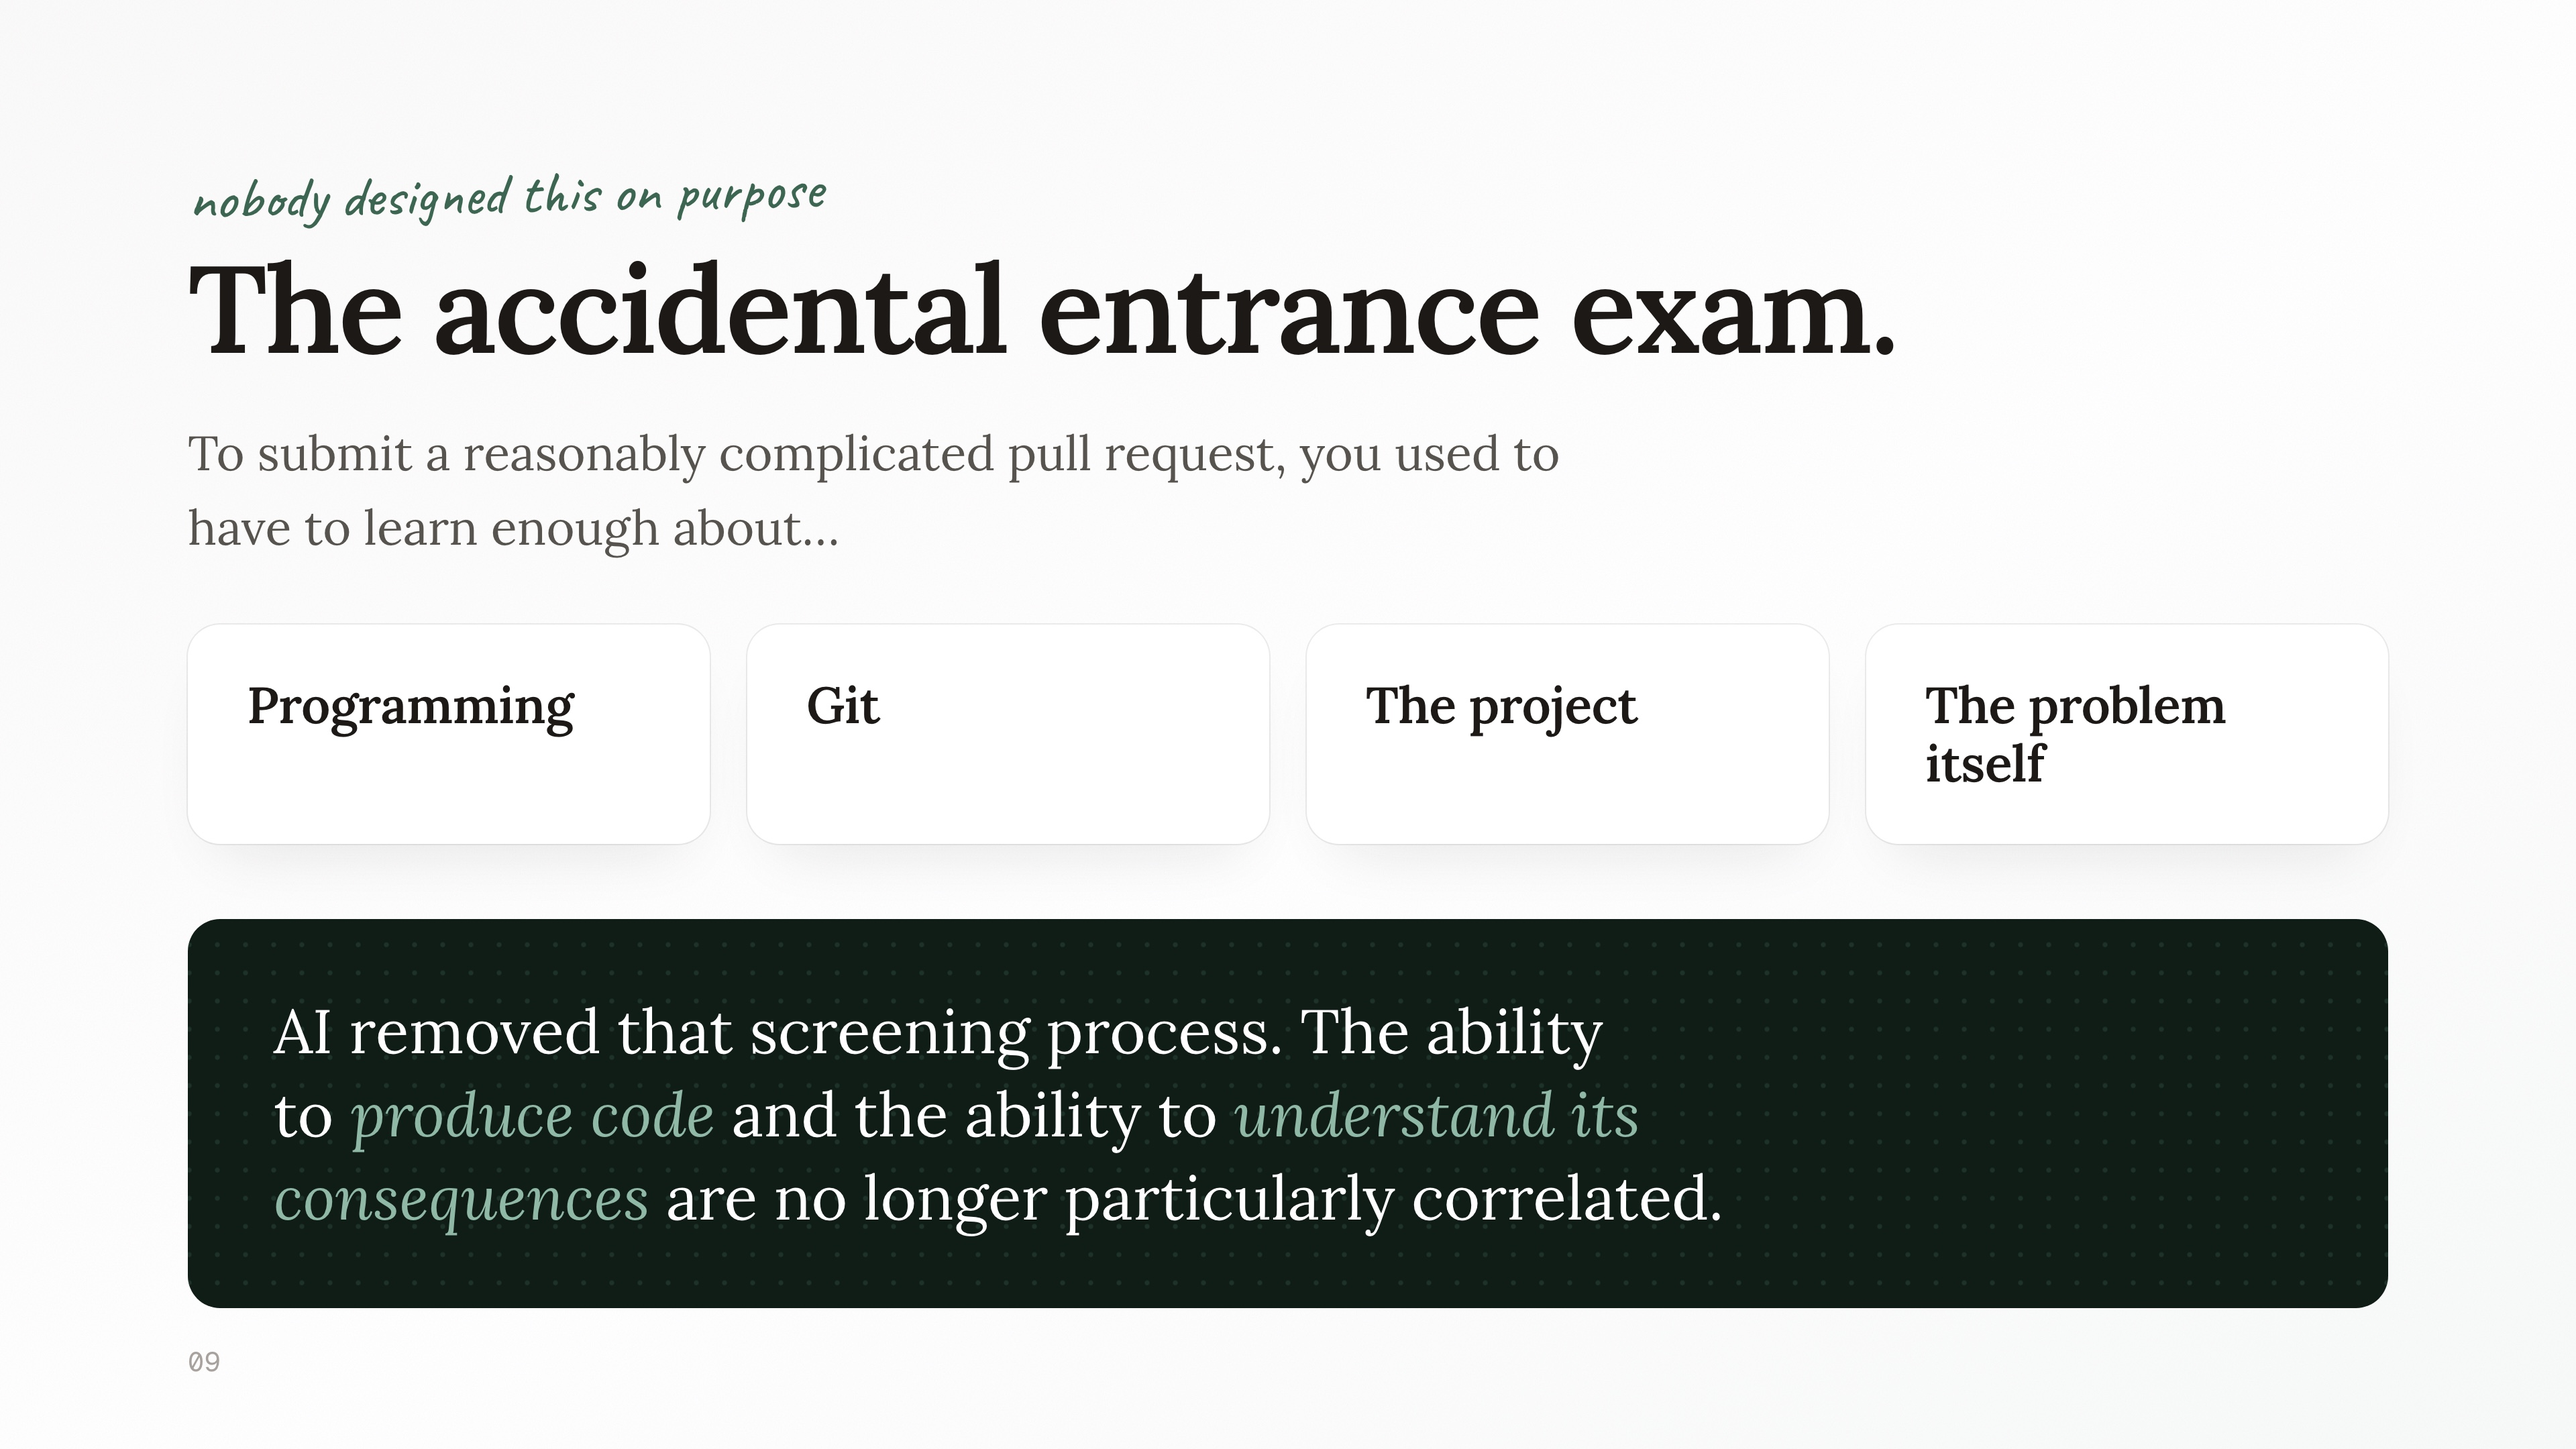
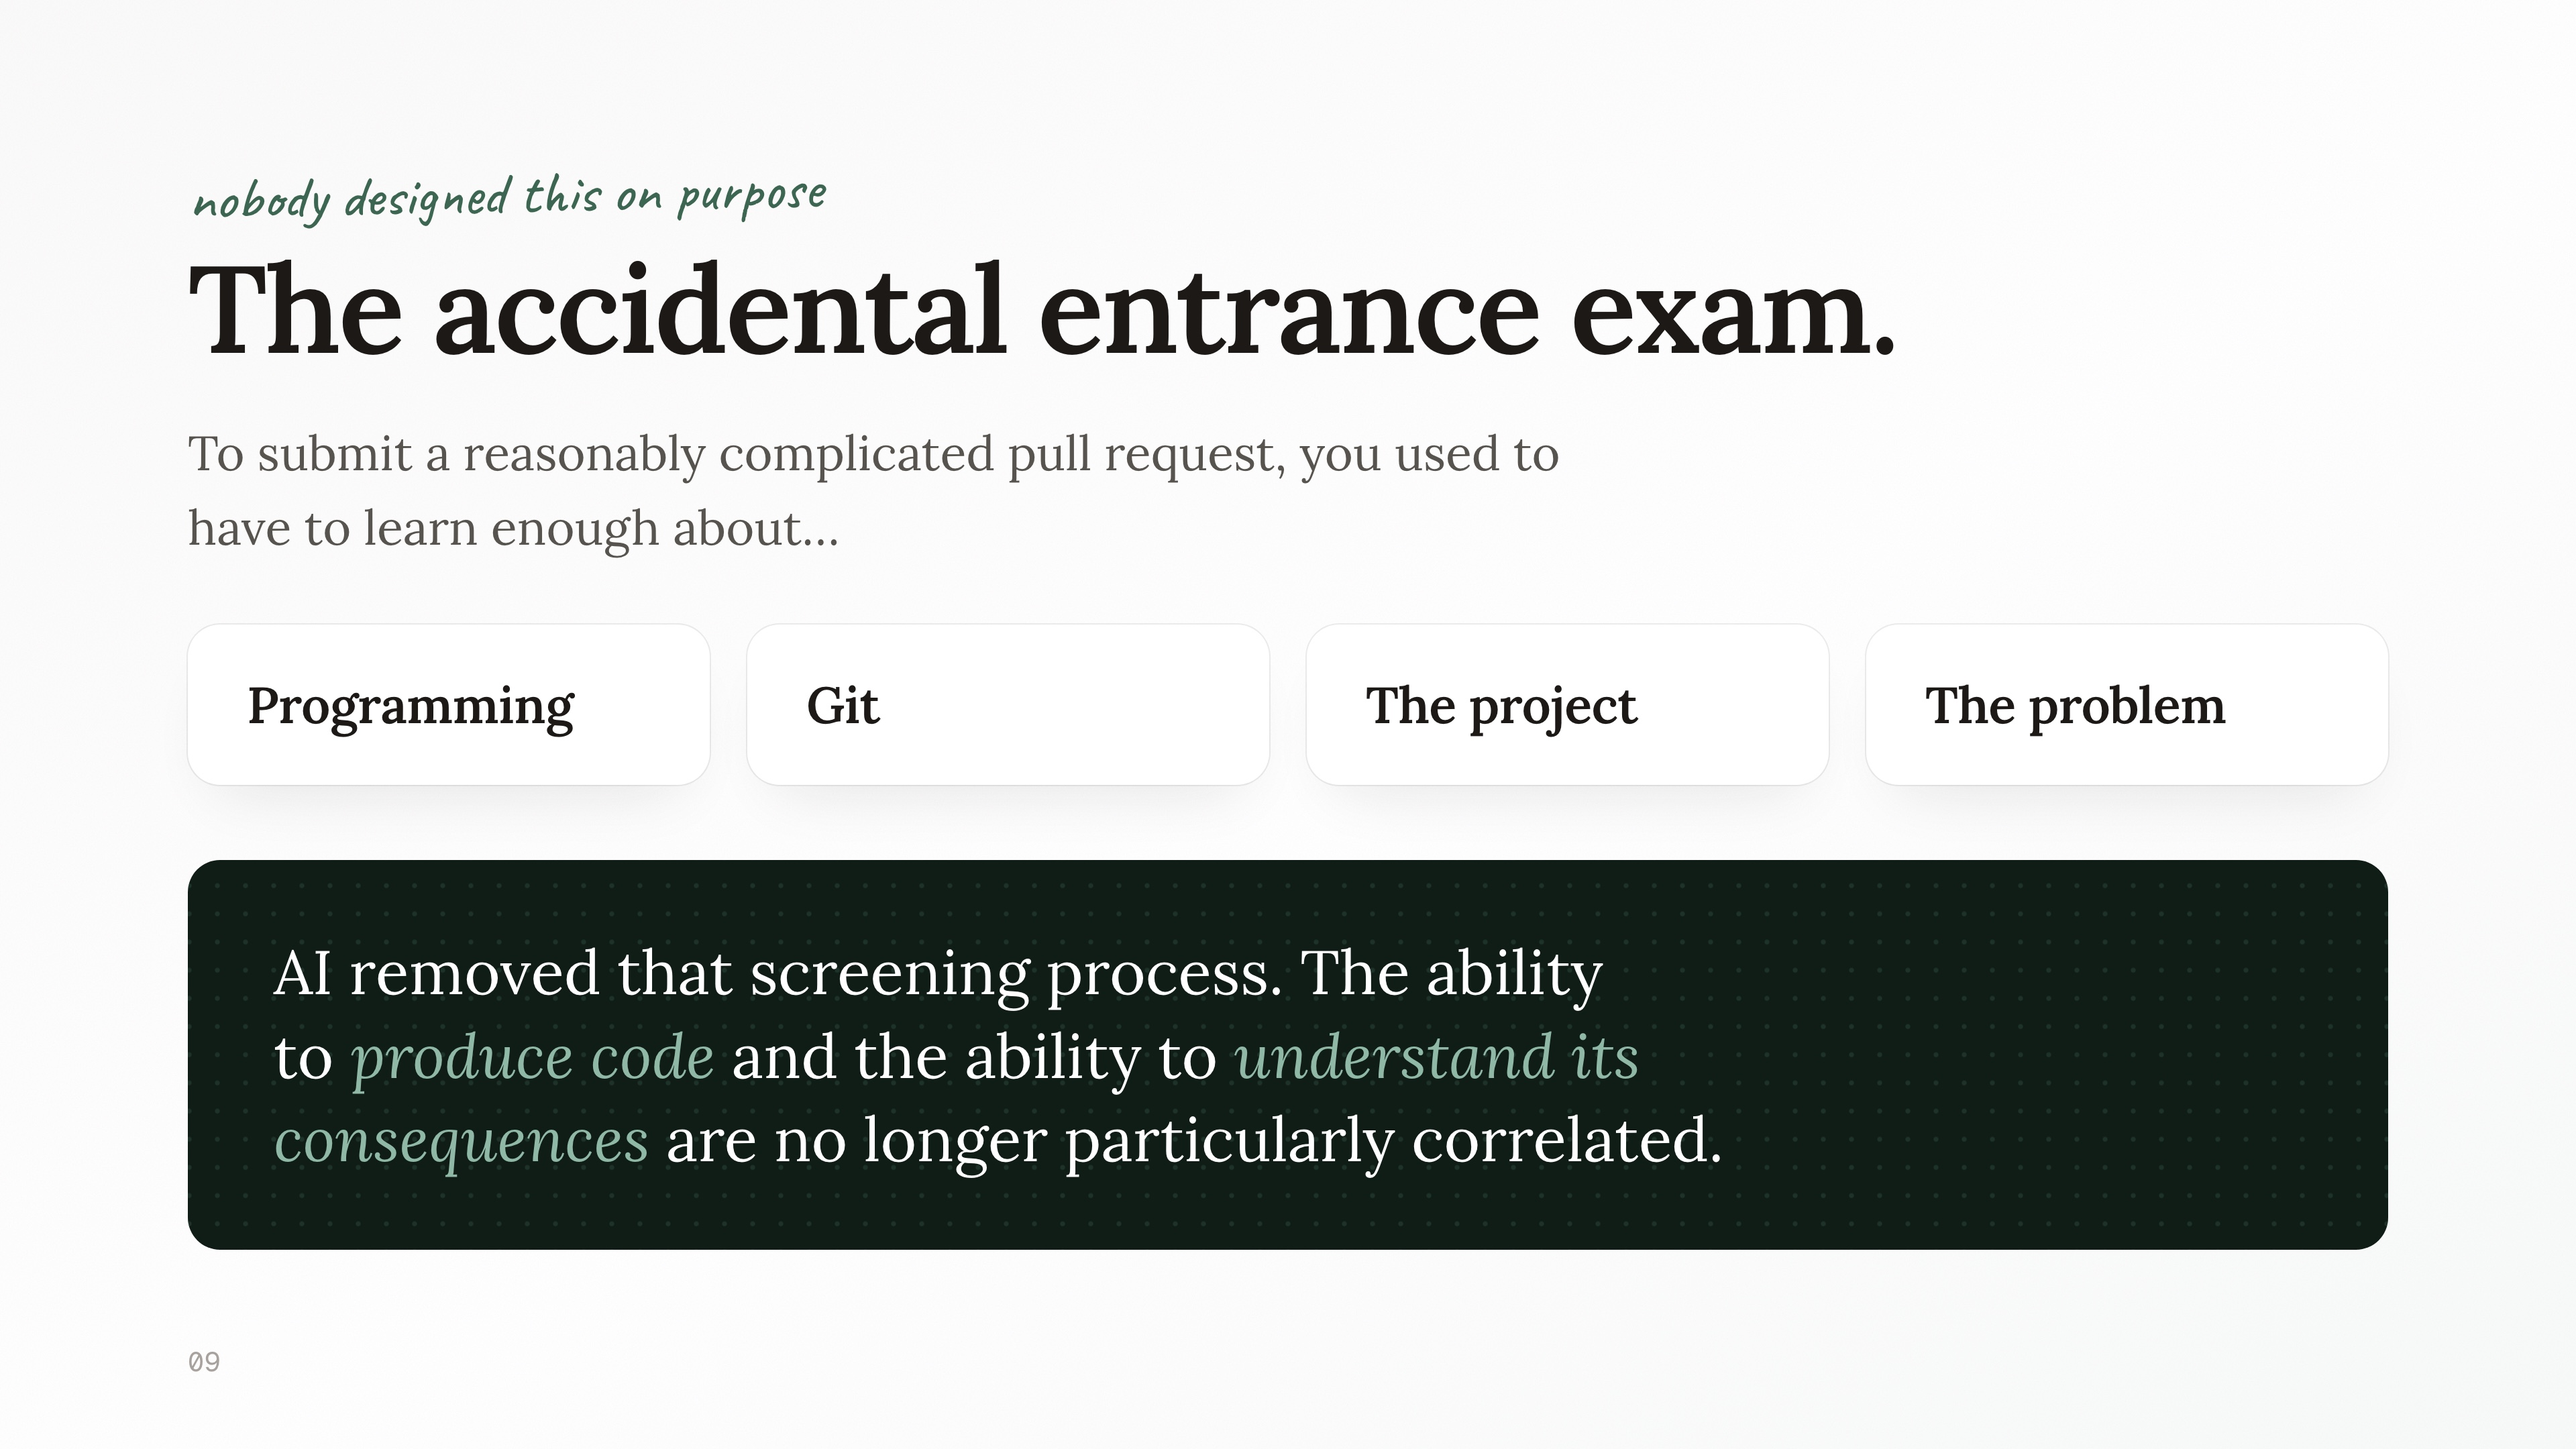
Simplify typography heading and reformat charts slide
Shortened 'Typography done properly' to 'Proper typography' and cleaned up whitespace/formatting in the GitHub charts section. Also updated associated slide images.

Changed region(s): [[0.0625, 0.5894, 0.9375, 0.9306], [0.75, 0.4963, 0.8125, 0.5583]]

diff --git a/deck/index.html b/deck/index.html
@@ -187,7 +187,7 @@
         <h2 style="font-size:66px;">Open source e-reader software your device should have shipped with.</h2>
         <div style="margin-top:30px; display:flex; flex-direction:column;">
           <div style="display:grid; grid-template-columns: 400px 1fr; gap:48px; align-items:baseline; padding:15px 0; border-top:1px solid var(--stone-200);">
-            <h3 style="font-family:var(--font-display); font-weight:600; font-size:32px;">Typography done properly</h3>
+            <h3 style="font-family:var(--font-display); font-weight:600; font-size:32px;">Proper typography</h3>
             <p style="font-size:28px; color:var(--stone-600);">Real justification, hyphenation, working footnotes. The layout of a printed book.</p>
           </div>
           <div style="display:grid; grid-template-columns: 400px 1fr; gap:48px; align-items:baseline; padding:15px 0; border-top:1px solid var(--stone-200);">
@@ -254,36 +254,6 @@
   <div class="foot"><span class="brandline">EPUBs, ESP32s, and Everyone's a Developer Now</span><span>03</span></div>
 </section>
 
-<!-- ============ 04 · GITHUB CHARTS ============ -->
-<section class="slide" id="s-charts">
-  <div class="abs wash"></div>
-  <div class="abs paper-grain grain"></div>
-  <div class="pad">
-    <span class="eyebrow">nine months on GitHub, in one chart</span>
-    <h2 style="font-size:76px;">Cumulative downloads, release by release.</h2>
-    <div id="chart" style="margin-top:40px;"></div>
-    <div style="margin-top:44px; display:flex; gap:110px; align-items:baseline;">
-      <div>
-        <div class="stat-num" style="font-size:76px;">7,714</div>
-        <div class="stat-label" style="margin-top:10px;">GitHub stars</div>
-      </div>
-      <div>
-        <div class="stat-num" style="font-size:76px;">1,691</div>
-        <div class="stat-label" style="margin-top:10px;">forks</div>
-      </div>
-      <div>
-        <div class="stat-num" style="font-size:76px;">230</div>
-        <div class="stat-label" style="margin-top:10px;">contributors</div>
-      </div>
-      <div>
-        <div class="stat-num" style="font-size:76px;">300,000<span class="accent">+</span></div>
-        <div class="stat-label" style="margin-top:10px;">installs</div>
-      </div>
-    </div>
-  </div>
-  <div class="foot"><span class="brandline">EPUBs, ESP32s, and Everyone's a Developer Now</span><span>04</span></div>
-</section>
-
 <!-- ============ 05 · NINE DOWNLOADS ============ -->
 <section class="slide" id="s2">
   <div class="abs wash"></div>
@@ -314,6 +284,36 @@
     </div>
   </div>
   <div class="foot"><span class="brandline">EPUBs, ESP32s, and Everyone's a Developer Now</span><span>02</span></div>
+</section>
+
+<!-- ============ 04 · GITHUB CHARTS ============ -->
+<section class="slide" id="s-charts">
+  <div class="abs wash"></div>
+  <div class="abs paper-grain grain"></div>
+  <div class="pad">
+    <span class="eyebrow">nine months on GitHub, in one chart</span>
+    <h2 style="font-size:76px;">Cumulative downloads, release by release.</h2>
+    <div id="chart" style="margin-top:40px;"></div>
+    <div style="margin-top:44px; display:flex; gap:110px; align-items:baseline;">
+      <div>
+        <div class="stat-num" style="font-size:76px;">7,714</div>
+        <div class="stat-label" style="margin-top:10px;">GitHub stars</div>
+      </div>
+      <div>
+        <div class="stat-num" style="font-size:76px;">1,691</div>
+        <div class="stat-label" style="margin-top:10px;">forks</div>
+      </div>
+      <div>
+        <div class="stat-num" style="font-size:76px;">230</div>
+        <div class="stat-label" style="margin-top:10px;">contributors</div>
+      </div>
+      <div>
+        <div class="stat-num" style="font-size:76px;">300,000<span class="accent">+</span></div>
+        <div class="stat-label" style="margin-top:10px;">installs</div>
+      </div>
+    </div>
+  </div>
+  <div class="foot"><span class="brandline">EPUBs, ESP32s, and Everyone's a Developer Now</span><span>04</span></div>
 </section>
 
 <!-- ============ 03 · THE EXPLOSION ============ -->
@@ -377,19 +377,19 @@
     <div style="margin-top:64px; display:flex; align-items:stretch; gap:0;">
       <div class="card" style="flex:1;">
         <div class="k">Step 1</div>
-        <h3>Find a feature you want</h3>
+        <h3>Want a feature</h3>
         <p>While reading, on a device you love.</p>
       </div>
       <div style="display:flex; align-items:center; padding:0 28px; font-family:var(--font-display); font-size:64px; color:var(--brand-400);">&rarr;</div>
       <div class="card" style="flex:1;">
         <div class="k">Step 2</div>
-        <h3>Describe it to an AI coding tool</h3>
+        <h3>Describe it to AI</h3>
         <p>No compiler, no toolchain, no CS degree.</p>
       </div>
       <div style="display:flex; align-items:center; padding:0 28px; font-family:var(--font-display); font-size:64px; color:var(--brand-400);">&rarr;</div>
       <div class="card" style="flex:1; background:var(--brand-50);">
         <div class="k">A few hours later</div>
-        <h3>There's a pull request</h3>
+        <h3>A pull request</h3>
         <p>From someone who learned GitHub over the weekend.</p>
       </div>
     </div>
@@ -410,7 +410,7 @@
       <div class="card" style="flex:1; padding:38px 44px;"><h3 style="font-size:38px;">Programming</h3></div>
       <div class="card" style="flex:1; padding:38px 44px;"><h3 style="font-size:38px;">Git</h3></div>
       <div class="card" style="flex:1; padding:38px 44px;"><h3 style="font-size:38px;">The project</h3></div>
-      <div class="card" style="flex:1; padding:38px 44px;"><h3 style="font-size:38px;">The problem itself</h3></div>
+      <div class="card" style="flex:1; padding:38px 44px;"><h3 style="font-size:38px;">The problem</h3></div>
     </div>
     <div style="margin-top:56px; background:var(--brand-950); border-radius:24px; padding:52px 64px; position:relative; overflow:hidden;">
       <div class="abs dot-field" style="color:var(--brand-700); opacity:0.4;"></div>
@@ -566,28 +566,28 @@
       <img src="freeink-mark.svg" alt="" style="width:56px; height:56px;" />
       <span style="font-family:'Space Grotesk',sans-serif; font-weight:600; font-size:40px; color:#0c0a09;">Free<span style="color:#e2451e;">Ink</span></span>
     </div>
-    <div style="display:grid; grid-template-columns: 1fr 700px; gap:60px; align-items:center; flex:1;">
+    <div style="display:grid; grid-template-columns: 1fr 1000px; gap:24px; align-items:center; flex:1;">
       <div>
         <div style="font-family:'IBM Plex Mono',monospace; font-size:24px; font-weight:500; letter-spacing:0.16em; color:#e2451e;">&mdash;&nbsp; THE SDK &middot; FREEINK.ORG</div>
-        <h2 style="font-family:'Space Grotesk',sans-serif; font-weight:600; letter-spacing:-0.03em; font-size:96px; line-height:1.04; color:#0c0a09; margin-top:26px;">One firmware API.<br/>Any e-paper device.</h2>
-        <p style="font-family:var(--font-sans); font-size:34px; line-height:1.6; color:#57534e; margin-top:36px; max-width:26em; text-wrap:pretty;">
+        <h2 style="font-family:'Space Grotesk',sans-serif; font-weight:600; letter-spacing:-0.03em; font-size:76px; line-height:1.06; color:#0c0a09; margin-top:22px;">One firmware API.<br/>Any e-paper device.</h2>
+        <p style="font-family:var(--font-sans); font-size:30px; line-height:1.6; color:#57534e; margin-top:28px; max-width:26em; text-wrap:pretty;">
           The community wasn't forming around one device. It was forming around small, inexpensive, hackable
           e-paper hardware. So we pulled the hardware layer underneath CrossPoint into an open SDK:
           <strong style="color:#0c0a09;">something common to build on</strong>, instead of fifteen incompatible islands.
         </p>
-        <div style="margin-top:52px; display:flex; gap:100px;">
+        <div style="margin-top:40px; display:flex; gap:80px;">
           <div>
-            <div style="font-family:'Space Grotesk',sans-serif; font-weight:600; font-size:96px; line-height:0.95; color:#0c0a09;">15<span style="color:#e2451e;">+</span></div>
-            <div style="font-family:'IBM Plex Mono',monospace; font-size:22px; letter-spacing:0.14em; text-transform:uppercase; color:#78716c; margin-top:16px;">e-readers &amp; display boards</div>
+            <div style="font-family:'Space Grotesk',sans-serif; font-weight:600; font-size:80px; line-height:0.95; color:#0c0a09;">15<span style="color:#e2451e;">+</span></div>
+            <div style="font-family:'IBM Plex Mono',monospace; font-size:22px; letter-spacing:0.14em; text-transform:uppercase; color:#78716c; margin-top:16px; white-space:nowrap;">e-readers &amp; display boards</div>
           </div>
           <div>
-            <div style="font-family:'Space Grotesk',sans-serif; font-weight:600; font-size:96px; line-height:0.95; color:#0c0a09;">Weekly</div>
-            <div style="font-family:'IBM Plex Mono',monospace; font-size:22px; letter-spacing:0.14em; text-transform:uppercase; color:#78716c; margin-top:16px;">new devices appearing</div>
+            <div style="font-family:'Space Grotesk',sans-serif; font-weight:600; font-size:80px; line-height:0.95; color:#0c0a09;">Weekly</div>
+            <div style="font-family:'IBM Plex Mono',monospace; font-size:22px; letter-spacing:0.14em; text-transform:uppercase; color:#78716c; margin-top:16px; white-space:nowrap;">new devices appearing</div>
           </div>
         </div>
       </div>
       <!-- the actual freeink.org hero schematic, captured from the live site -->
-      <img src="freeink-schematic.png" alt="" style="width:700px; justify-self:end;" />
+      <img src="freeink-schematic.png" alt="" style="width:1000px; justify-self:end; align-self:start; margin-top:60px;" />
     </div>
   </div>
   <div class="foot"><span class="brandline">EPUBs, ESP32s, and Everyone's a Developer Now</span><span>12</span></div>
